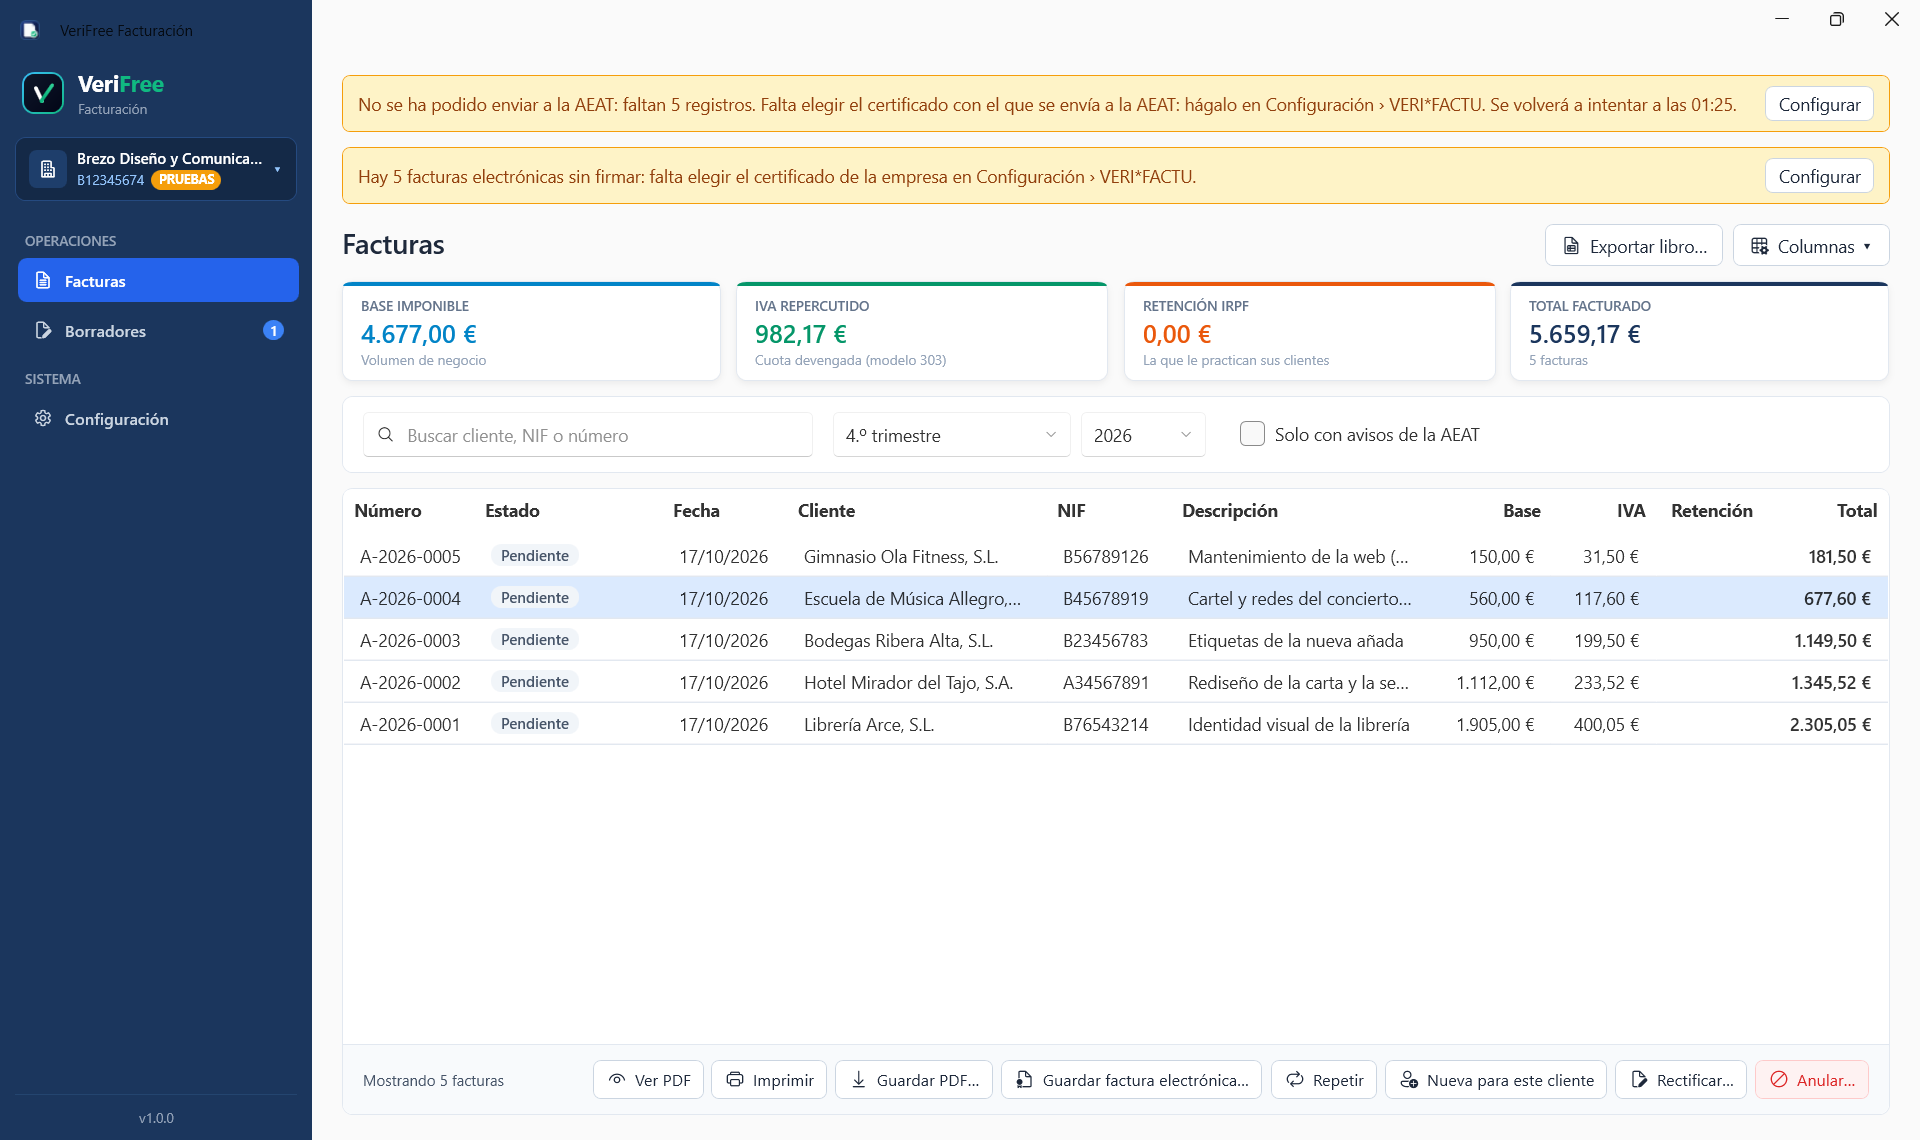
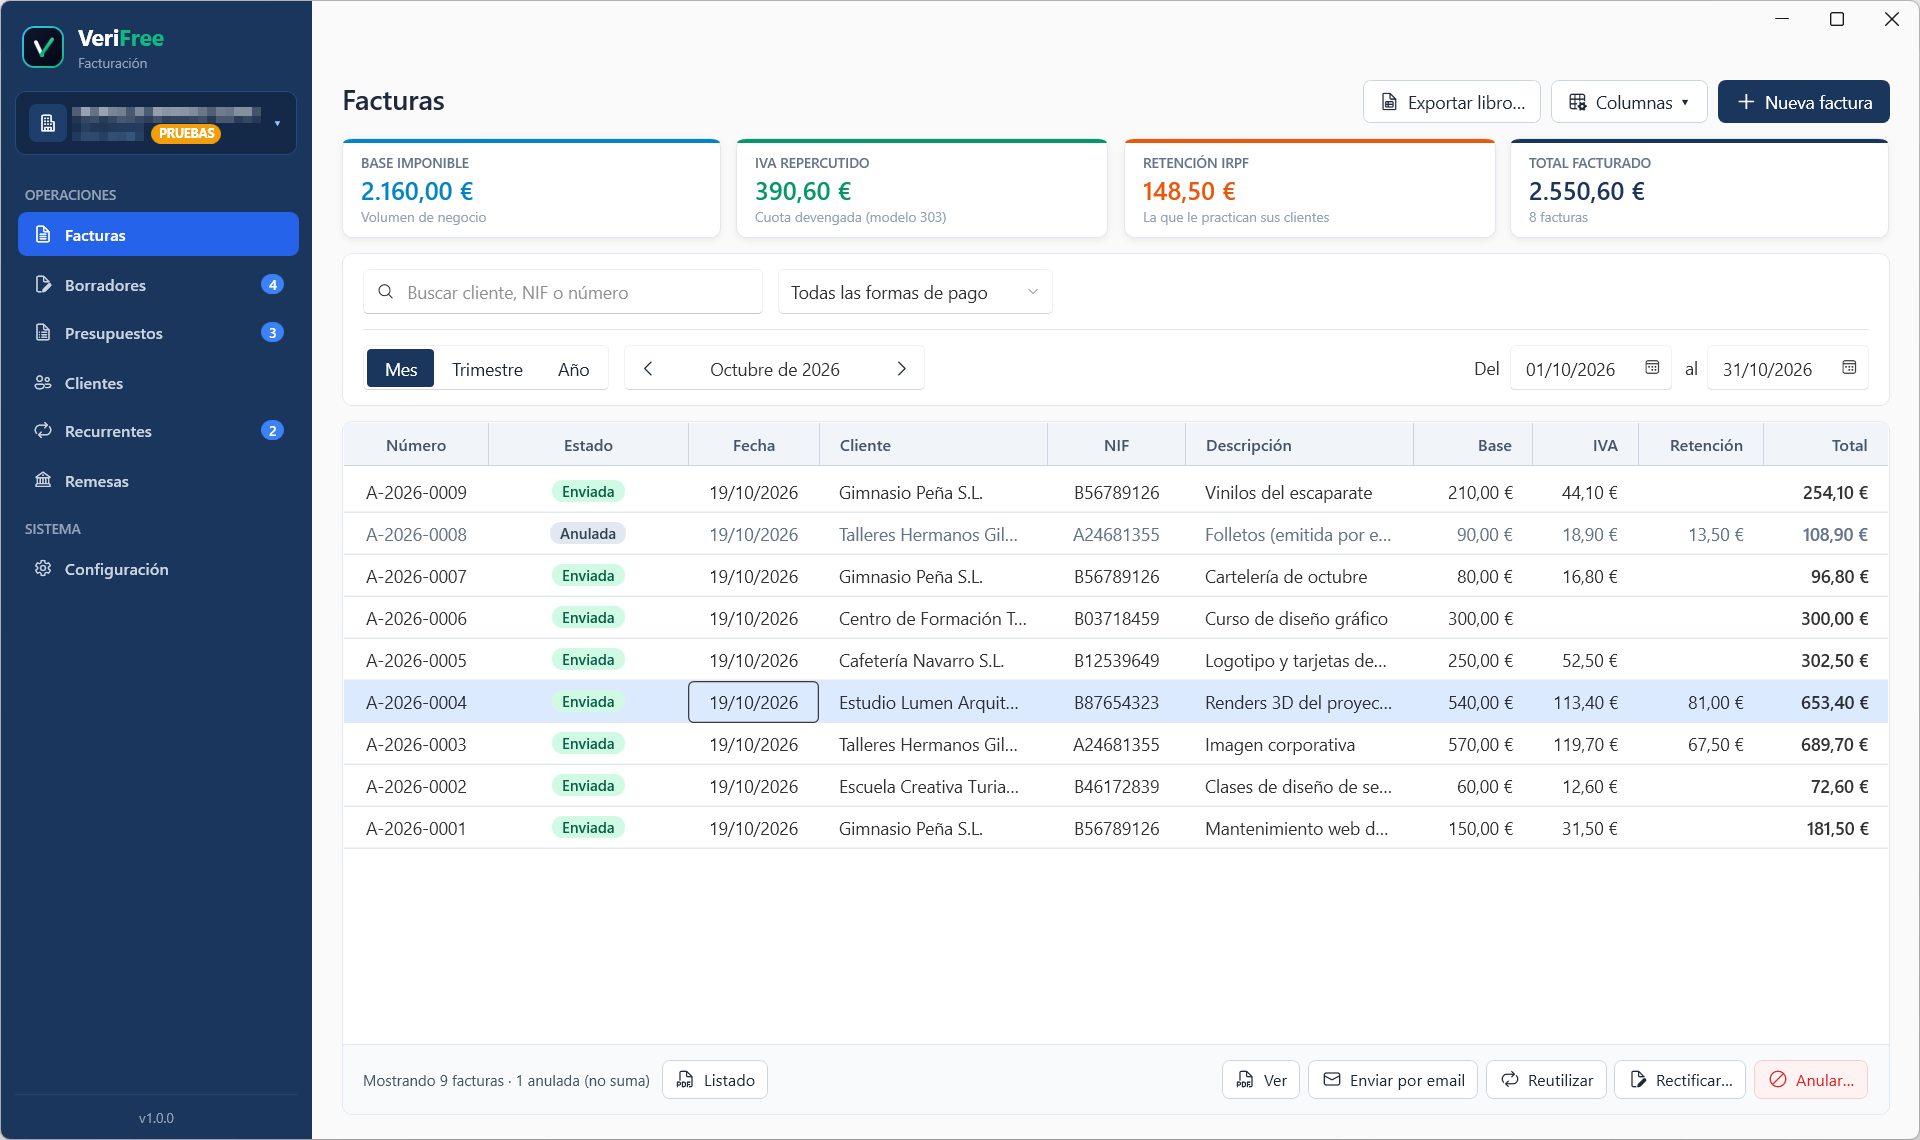
Capturas nuevas con envio real al entorno de pruebas de la AEAT (datos del titular tapados): Facturas, Presupuestos, Recurrentes y Remesas, tambien en el manual

diff --git a/index.html b/index.html
@@ -80,7 +80,7 @@
 
       <!-- Captura real del programa -->
       <figure class="escenario">
-        <img src="capturas/facturas.png" alt="VeriFree: lista de facturas con los totales del trimestre y el estado de envío a la AEAT" width="1920" height="1140">
+        <img src="capturas/facturas.png" alt="VeriFree: lista de facturas con los totales del mes y el estado de envío a la AEAT" width="1920" height="1140">
         <div class="flotante flotante-izq" aria-hidden="true"><strong>Tus datos, en tu PC</strong><span>Sin nube ni servidores de terceros</span></div>
         <div class="flotante flotante-der" aria-hidden="true"><img src="capturas/factura-pdf.png" alt="" width="992" height="780"><strong>Código QR oficial de cotejo</strong></div>
 
@@ -324,24 +324,36 @@
       <div class="selector" role="tablist" aria-label="Capturas del programa">
         <button type="button" class="tab-btn activo" role="tab" aria-selected="true" aria-controls="tab-facturas">
           <svg width="16" height="16" viewBox="0 0 24 24" fill="none" stroke="currentColor" stroke-width="1.9" stroke-linecap="round" stroke-linejoin="round" aria-hidden="true"><rect x="2" y="3" width="20" height="14" rx="2"/><line x1="8" y1="21" x2="16" y2="21"/><line x1="12" y1="17" x2="12" y2="21"/></svg>
-          Facturas y estados AEAT
+          Facturas
         </button>
         <button type="button" class="tab-btn" role="tab" aria-selected="false" aria-controls="tab-pdf">
           <svg width="16" height="16" viewBox="0 0 24 24" fill="none" stroke="currentColor" stroke-width="1.9" stroke-linecap="round" stroke-linejoin="round" aria-hidden="true"><path d="M14 2H6a2 2 0 0 0-2 2v16a2 2 0 0 0 2 2h12a2 2 0 0 0 2-2V8z"/><polyline points="14 2 14 8 20 8"/></svg>
-          Factura PDF con código QR
+          Factura en PDF
         </button>
         <button type="button" class="tab-btn" role="tab" aria-selected="false" aria-controls="tab-ubl">
           <svg width="16" height="16" viewBox="0 0 24 24" fill="none" stroke="currentColor" stroke-width="1.9" stroke-linecap="round" stroke-linejoin="round" aria-hidden="true"><path d="M12 22s8-4 8-10V5l-8-3-8 3v7c0 6 8 10 8 10z"/></svg>
           Factura electrónica
         </button>
+        <button type="button" class="tab-btn" role="tab" aria-selected="false" aria-controls="tab-presupuestos">
+          <svg width="16" height="16" viewBox="0 0 24 24" fill="none" stroke="currentColor" stroke-width="1.9" stroke-linecap="round" stroke-linejoin="round" aria-hidden="true"><path d="M14 2H6a2 2 0 0 0-2 2v16a2 2 0 0 0 2 2h12a2 2 0 0 0 2-2V8z"/><polyline points="14 2 14 8 20 8"/><path d="M8 13h8M8 17h5"/></svg>
+          Presupuestos
+        </button>
+        <button type="button" class="tab-btn" role="tab" aria-selected="false" aria-controls="tab-recurrentes">
+          <svg width="16" height="16" viewBox="0 0 24 24" fill="none" stroke="currentColor" stroke-width="1.9" stroke-linecap="round" stroke-linejoin="round" aria-hidden="true"><polyline points="17 1 21 5 17 9"/><path d="M3 11V9a4 4 0 0 1 4-4h14"/><polyline points="7 23 3 19 7 15"/><path d="M21 13v2a4 4 0 0 1-4 4H3"/></svg>
+          Recurrentes
+        </button>
+        <button type="button" class="tab-btn" role="tab" aria-selected="false" aria-controls="tab-remesas">
+          <svg width="16" height="16" viewBox="0 0 24 24" fill="none" stroke="currentColor" stroke-width="1.9" stroke-linecap="round" stroke-linejoin="round" aria-hidden="true"><rect x="1" y="4" width="22" height="16" rx="2"/><line x1="1" y1="10" x2="23" y2="10"/></svg>
+          Remesas
+        </button>
       </div>
 
       <div id="tab-facturas" class="tab-contenido activo" role="tabpanel">
         <figure class="captura-marco">
-          <img src="capturas/facturas.png" alt="Pantalla principal de Facturas de VeriFree: totales del trimestre, filtros y avisos de remisión a la AEAT" width="1920" height="1140" loading="lazy">
+          <img src="capturas/facturas.png" alt="Pantalla principal de Facturas de VeriFree: totales del mes, filtros y estado de envío de cada factura a la AEAT" width="1920" height="1140" loading="lazy">
         </figure>
         <p class="captura-pie">
-          Listado correlativo inmutable, totales del trimestre en tiempo real, desglose de bases y estado directo de cada registro en la AEAT con CSV oficial.
+          Listado correlativo inmutable, totales del mes, el trimestre o el año al momento, y el estado de cada factura en la AEAT, con su CSV oficial. Datos de ejemplo, enviados al entorno de pruebas de la AEAT.
         </p>
       </div>
 
@@ -385,6 +397,33 @@
             </ul>
           </div>
         </div>
+      </div>
+
+      <div id="tab-presupuestos" class="tab-contenido" role="tabpanel">
+        <figure class="captura-marco">
+          <img src="capturas/presupuestos.png" alt="Pantalla Presupuestos de VeriFree: presupuestos y facturas proforma con su validez y su situación (sin facturar, caducado o facturado)" width="1920" height="1140" loading="lazy">
+        </figure>
+        <p class="captura-pie">
+          Presupuestos y facturas proforma con su número y su validez. Cada uno dice solo si está sin facturar, caducado o ya facturado, y con qué factura.
+        </p>
+      </div>
+
+      <div id="tab-recurrentes" class="tab-contenido" role="tabpanel">
+        <figure class="captura-marco">
+          <img src="capturas/recurrentes.png" alt="Pantalla Recurrentes de VeriFree: lo que se factura cada mes o cada trimestre, con las que tocan este mes ya marcadas" width="1920" height="1140" loading="lazy">
+        </figure>
+        <p class="captura-pie">
+          Lo que facturas cada cierto tiempo: elige el mes, revisa las que tocan, ya marcadas, y prepara de una vez sus borradores.
+        </p>
+      </div>
+
+      <div id="tab-remesas" class="tab-contenido" role="tabpanel">
+        <figure class="captura-marco">
+          <img src="capturas/remesas.png" alt="Pantalla Remesas de VeriFree: facturas domiciliadas del mes con la cuenta y la orden de domiciliación de cada cliente" width="1920" height="1140" loading="lazy">
+        </figure>
+        <p class="captura-pie">
+          Las facturas domiciliadas del periodo, con la cuenta y la orden firmada de cada cliente y en qué remesas han ido ya. Un clic y tienes el fichero para tu banco.
+        </p>
       </div>
     </div>
   </section>

diff --git a/manual.html b/manual.html
@@ -142,6 +142,10 @@
           <li><strong>Facturar…</strong> emite la factura directamente, con la fecha de hoy y el siguiente número de la serie por defecto, y la deja ligada al presupuesto («Facturado: A-2026-0023»). Mientras le falte algo para ser factura, el editor dice qué.</li>
           <li><strong>Duplicar</strong> abre una copia sin guardar, para hacer otro parecido.</li>
         </ul>
+        <figure class="captura">
+          <img src="capturas/presupuestos.png" alt="Pantalla Presupuestos con presupuestos y proformas sin facturar, caducados y facturados" width="1920" height="1140" loading="lazy">
+          <figcaption>Datos de ejemplo.</figcaption>
+        </figure>
         <p>La lista enseña los pendientes; <strong>Ver todos</strong> muestra también los facturados y los caducados. Un presupuesto guardado no se borra, y uno facturado ya no se modifica: la AEAT recomienda conservar lo que se entregó al cliente antes de facturar, ligado a su factura.</p>
       </section>
 
@@ -164,7 +168,7 @@
         <h2>7. Facturas emitidas</h2>
         <p>En <strong>Facturas</strong> están las emitidas del periodo que elijas: <strong>Mes</strong>, <strong>Trimestre</strong> o <strong>Año</strong>, con las flechas para ir al anterior o al siguiente (el trimestre anterior, el del modelo 303, queda a un clic), o las fechas que escribas. Arriba ves sus totales: base imponible, IVA, retención de IRPF y total. El buscador busca en el número de la factura y en el nombre o el NIF del cliente, y el desplegable filtra por forma de pago.</p>
         <figure class="captura">
-          <img src="capturas/facturas.png" alt="Lista de facturas de VeriFree con los totales del trimestre y los botones de cada factura" width="1920" height="1140" loading="lazy">
+          <img src="capturas/facturas.png" alt="Lista de facturas de VeriFree con los totales del mes y los botones de cada factura" width="1920" height="1140" loading="lazy">
           <figcaption>Datos de ejemplo.</figcaption>
         </figure>
         <p>Con una factura elegida (al pie de la tabla y en el menú del botón derecho):</p>
@@ -240,6 +244,10 @@
           <li>Cuándo se repite: cada mes, cada dos meses, cada trimestre, cada semestre o cada año desde el mes que elijas, o «cuando yo diga»; y si vence a unos días de prepararla.</li>
           <li>Abajo, una vista previa de cómo saldría la próxima vez.</li>
         </ul>
+        <figure class="captura">
+          <img src="capturas/recurrentes.png" alt="Pantalla Recurrentes con las que tocan este mes ya marcadas" width="1920" height="1140" loading="lazy">
+          <figcaption>Datos de ejemplo.</figcaption>
+        </figure>
         <p>La lista enseña el mes en curso (con las flechas cambias de mes), con las que tocan ya marcadas. <strong>Preparar borradores…</strong> prepara de una vez los borradores de las marcadas y te ofrece ir a Borradores para revisarlos y emitirlos. VeriFree anota qué mes se preparó de cada una para que no se repita sin querer; <strong>Preparar solo esta…</strong> repite una a propósito. <strong>Ver todas</strong> enseña también las que no tocan ese mes y las que están en pausa.</p>
       </section>
 
@@ -251,6 +259,10 @@
           <li>Las que salen en gris son de clientes sin orden de domiciliación: elige una y pulsa <strong>Orden de domiciliación…</strong> para escribir su referencia y la fecha en que el cliente la firmó. Si aún no la tiene, <strong>Orden para firmar</strong> te da el modelo de la banca española, relleno, para imprimirlo.</li>
           <li>Elige el día de cobro en <strong>Cobrar el</strong> (de entrada, el primero posible: el banco necesita el fichero con unos días de antelación) y pulsa <strong>Generar remesa…</strong>, que crea el fichero para el banco y su listado en PDF.</li>
         </ol>
+        <figure class="captura">
+          <img src="capturas/remesas.png" alt="Pantalla Remesas con las facturas domiciliadas del mes, la cuenta y la orden firmada de cada cliente" width="1920" height="1140" loading="lazy">
+          <figcaption>Datos de ejemplo.</figcaption>
+        </figure>
         <p>En <strong>Historial</strong> están las remesas generadas, para volver a guardar su fichero o ver su listado. El identificador de acreedor se calcula de tu NIF; si tu banco te ha dado un código comercial distinto de 000, cámbialo con <strong>Cambiar el código comercial</strong>.</p>
         <p class="aviso">VeriFree no lleva el control de cobros: no marca facturas como cobradas, solo dice en qué remesas ha ido cada una.</p>
       </section>
